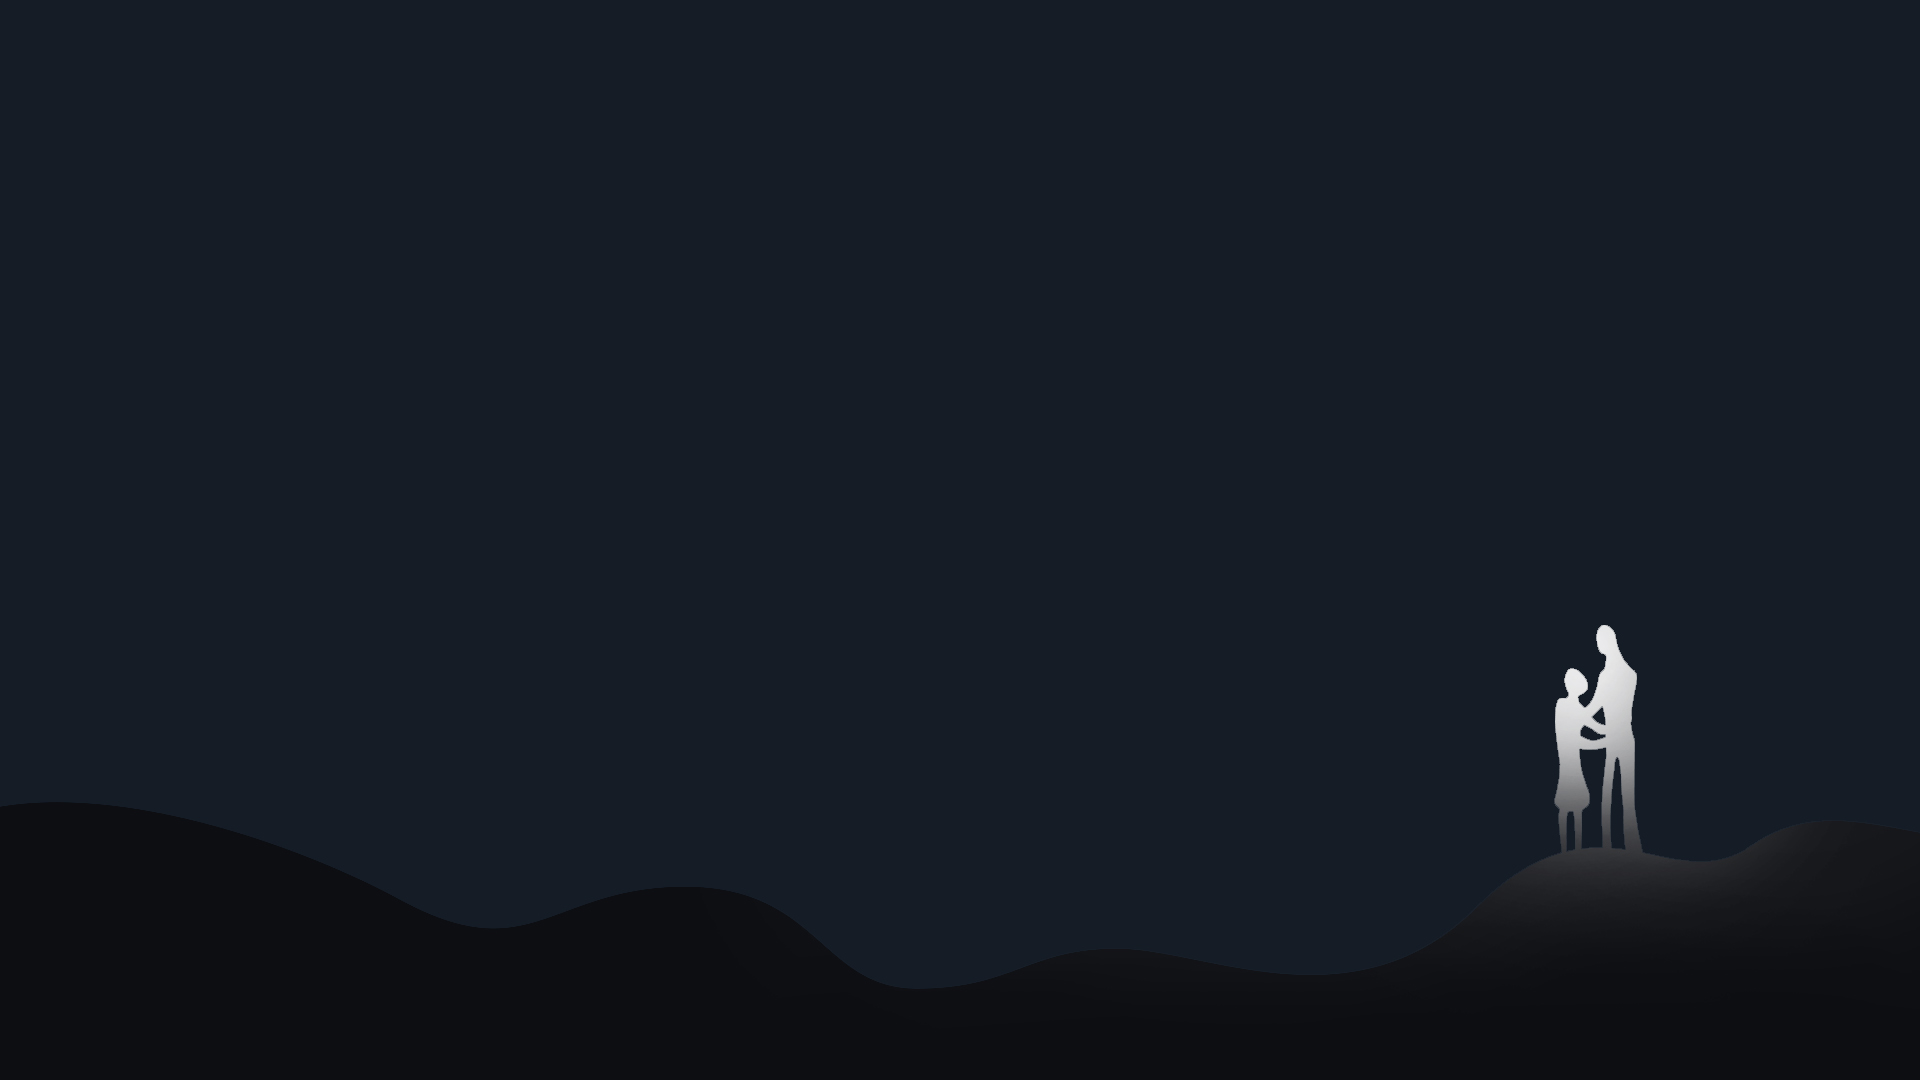
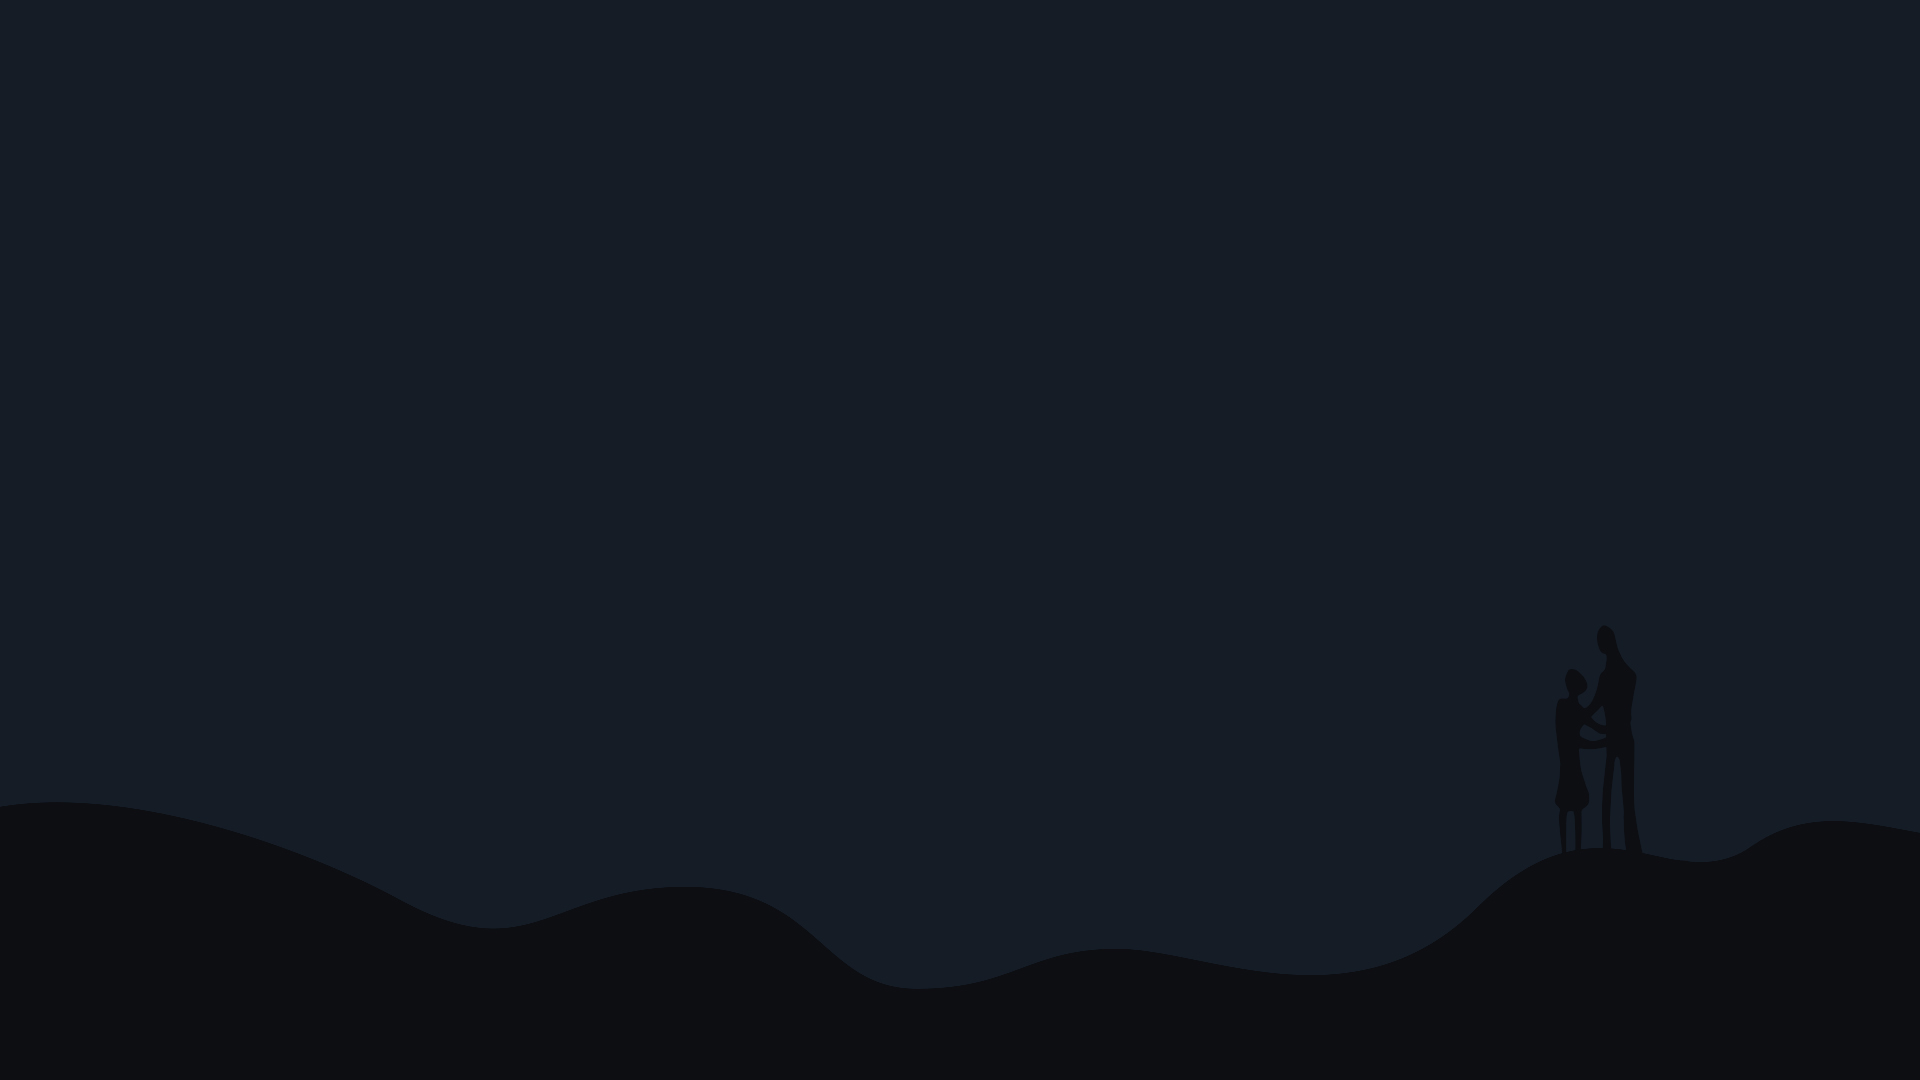
sdf

Changed region(s): [[0.7812, 0.5806, 0.9062, 0.825]]

diff --git a/js/questionaire.js b/js/questionaire.js
@@ -56,9 +56,13 @@ function questionaire(){
         if((arrSum(an))>4){
             var answer = "<div data-aos='fade-in'><p style='text-align: center'>based on your answers to the above questions:</p><h5 style='text-align: center'><b style='color: #8293b6 !important;'><br>You are likely to be lonely,</b><br>and everyone feels lonely sometimes.</h5><p style='text-align: center'><em><br><br><br>Loneliess is even more common than what you may think.<br>It is a depressing feeling that is shared among many of us.<br><br>yet, why are we still struggling with it alone?</em></p></div>";
             document.getElementById("questionaire").innerHTML = answer;
+            var review = "This is some phrase that talks to you because your questionaire says you're lonely";
+            document.getElementById("questionreview").innerHTML = review;
         }else{
             var answer = "<div data-aos='fade-in'><p style='text-align: center'>based on your answers to the above questions:</p><h5 style='text-align: center'>Everyone feels lonely sometimes,<br><b style='color: #8293b6 !important;'>you are among the lucky, happy few.</b></h5><p style='text-align: center'><br><br><br><em>But loneliness is actually more common than you may think.<br><br>Did you know that about 15% of the world suffers from loneliness?<br>and what can we do? how can we help?</em></p></div>";
             document.getElementById("questionaire").innerHTML = answer;
+            var review = "This is some phrase that talks to you because apparently you are not lonely.";
+            document.getElementById("questionreview").innerHTML = review;
             //console.log(arrSum(an));
         }
 

diff --git a/index.html b/index.html
@@ -390,15 +390,16 @@
         </p>
     </div>
 
-    <div class="section" data-aos="fade-in">
+    <div class="section" style="background-image: url('img/back4.png'); background-position: center bottom; background-repeat: no-repeat; background-size: cover; margin-bottom: 0px;">
         <div style="height:300px"></div>
-        <p>We live in a lonely world, <b>but you are not alone.</b></p>
-        <div style="height:50px"></div>
+        <p id="questionreview"></p>
+        <p data-aos="fade-in">We live in a lonely world, <b>but you are not alone.</b></p>
+        <div style="height:300px"></div>
     </div>
 
 
-    <div class="section" data-aos="fade-in">
-        <div class="line"></div>
+    <div class="section" style="margin-top: -3px; background: #0c0e12;">
+        <div class="line"  style="margin-top: 0px;"></div>
         <div class="row">
             <div class="col-md-3"><p class="small">Harvard CS171 : <b>Visualization</b><br><br>An introductual course at Harvard focusing on key design principles and techniques for visualizing data.</p></div>
             <div class="col-md-6"><p class="small">Data Sources:</p></div>
